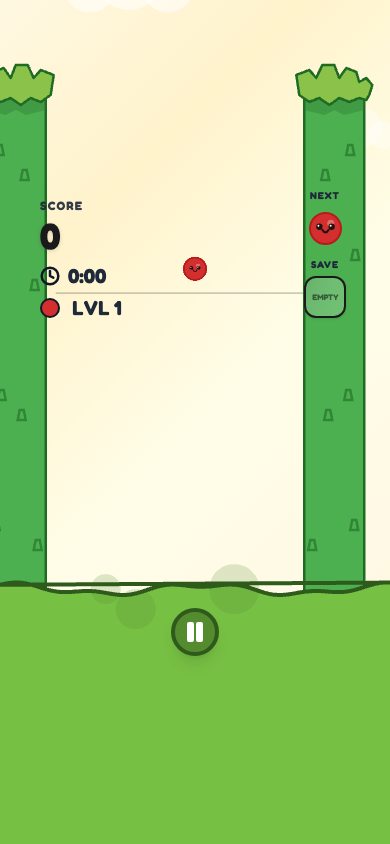
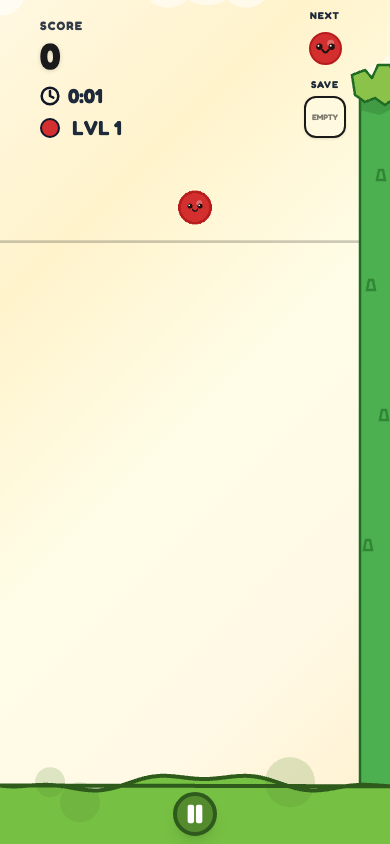
fix: Use actual DOM game area bounds for wall/ground positioning, match engine to DOM layout

diff --git a/services/GameEngine.ts b/services/GameEngine.ts
@@ -450,35 +450,77 @@ export class GameEngine {
 
         const actualW = this.app.screen.width;
         const actualH = this.app.screen.height;
-        const viewW = actualW / 1.4;
-        const viewH = actualH / 1.4;
 
-        this.scaleFactor = Math.min(viewW / V_WIDTH, viewH / V_HEIGHT);
-        this.container.scale.set(this.scaleFactor);
+        // If we have a game area rect, use it to calculate scale
+        if (this._gameAreaWidth > 0 && this._gameAreaHeight > 0) {
+            this.scaleFactor = Math.min(this._gameAreaWidth / V_WIDTH, this._gameAreaHeight / V_HEIGHT);
+            this.container.scale.set(this.scaleFactor);
 
-        // Center the container in the canvas
-        const logicalW = V_WIDTH * this.scaleFactor;
-        const logicalH = V_HEIGHT * this.scaleFactor;
-
-        const xOffset = (actualW - logicalW) / 2;
-        const yOffset = (actualH - logicalH) / 2;
-
-        this.container.position.set(xOffset, yOffset);
+            // Center container within the canvas
+            const logicalW = V_WIDTH * this.scaleFactor;
+            const logicalH = V_HEIGHT * this.scaleFactor;
+            const xOffset = (actualW - logicalW) / 2;
+            const yOffset = (actualH - logicalH) / 2;
+            this.container.position.set(xOffset, yOffset);
+        } else {
+            // Fallback: estimate from canvas size
+            const viewW = actualW / 1.4;
+            const viewH = actualH / 1.4;
+            this.scaleFactor = Math.min(viewW / V_WIDTH, viewH / V_HEIGHT);
+            this.container.scale.set(this.scaleFactor);
+            const logicalW = V_WIDTH * this.scaleFactor;
+            const logicalH = V_HEIGHT * this.scaleFactor;
+            const xOffset = (actualW - logicalW) / 2;
+            const yOffset = (actualH - logicalH) / 2;
+            this.container.position.set(xOffset, yOffset);
+        }
 
         // Track screen-space coordinates for wall/cloud/ground renderers
         this._screenWidth = actualW;
         this._screenHeight = actualH;
-        this._containerTop = yOffset;
-        this._containerLeft = xOffset;
-        this._gameAreaWidth = V_WIDTH * this.scaleFactor;
-        this._gameAreaHeight = V_HEIGHT * this.scaleFactor;
+        this._containerTop = this._gameAreaHeight > 0 ? (actualH - this._gameAreaHeight) / 2 : this._containerTop;
+        this._containerLeft = this._gameAreaWidth > 0 ? (actualW - this._gameAreaWidth) / 2 : this._containerLeft;
 
         // Update screen-space renderers (ground, walls, clouds)
         if (this.groundRenderer) {
-            this.groundRenderer.draw(actualW, actualH, this._gameAreaWidth, this._gameAreaHeight, yOffset, xOffset);
+            this.groundRenderer.draw(actualW, actualH, this._gameAreaWidth, this._gameAreaHeight, this._containerTop, this._containerLeft);
         }
         if (this.wallRenderer) {
-            this.wallRenderer.draw(this._gameAreaWidth, this._gameAreaHeight, yOffset, xOffset, actualH);
+            this.wallRenderer.draw(this._gameAreaWidth, this._gameAreaHeight, this._containerTop, this._containerLeft, actualH);
+        }
+    }
+
+    /**
+     * Update the game area rectangle in screen coordinates.
+     * Called when the DOM layout changes (responsive resize).
+     */
+    updateGameAreaRect(left: number, top: number, width: number, height: number): void {
+        if (!this.app || !this.app.screen) return;
+
+        this._containerLeft = left;
+        this._containerTop = top;
+        this._gameAreaWidth = width;
+        this._gameAreaHeight = height;
+        this._screenWidth = this.app.screen.width;
+        this._screenHeight = this.app.screen.height;
+
+        // Recalculate scale and container position
+        this.scaleFactor = Math.min(width / V_WIDTH, height / V_HEIGHT);
+        this.container.scale.set(this.scaleFactor);
+
+        // Center container within the canvas
+        const logicalW = V_WIDTH * this.scaleFactor;
+        const logicalH = V_HEIGHT * this.scaleFactor;
+        const xOffset = (this._screenWidth - logicalW) / 2;
+        const yOffset = (this._screenHeight - logicalH) / 2;
+        this.container.position.set(xOffset, yOffset);
+
+        // Update screen-space renderers
+        if (this.groundRenderer) {
+            this.groundRenderer.draw(this._screenWidth, this._screenHeight, width, height, top, left);
+        }
+        if (this.wallRenderer) {
+            this.wallRenderer.draw(width, height, top, left, this._screenHeight);
         }
     }
 

diff --git a/components/GameCanvas.tsx b/components/GameCanvas.tsx
@@ -1,6 +1,6 @@
 
 // ... imports
-import React, { useEffect, useRef, useState, useCallback } from 'react';
+import React, { useEffect, useRef, useState } from 'react';
 import { GameSettings, GameStats, FruitTier, LeaderboardEntry, PopupData, PointEvent, PopUpType } from '../types';
 import { GameEngine } from '../services/GameEngine';
 import { DANGER_Y_PERCENT } from '../constants';
@@ -116,22 +116,6 @@ export const GameCanvas: React.FC<GameCanvasProps> = ({ settings, onUpdateSettin
     };
 
     // --- Track Game Area Position ---
-    // The LayoutContainer now handles sizing. We just need to track the game area ref position.
-    const handleLayoutSizeChange = useCallback((_width: number, _height: number, _top: number, _left: number) => {
-        // LayoutContainer size changed, update game area dimensions
-        requestAnimationFrame(() => {
-            if (gameAreaRef.current) {
-                const rect = gameAreaRef.current.getBoundingClientRect();
-                setGameAreaDimensions({
-                    width: rect.width,
-                    height: rect.height,
-                    top: rect.top,
-                    left: rect.left
-                });
-            }
-        });
-    }, []);
-
     useEffect(() => {
         const updateGameAreaPosition = () => {
             if (gameAreaRef.current) {
@@ -142,6 +126,8 @@ export const GameCanvas: React.FC<GameCanvasProps> = ({ settings, onUpdateSettin
                     top: rect.top,
                     left: rect.left
                 });
+                // Update engine with actual DOM game area bounds
+                engineRef.current?.updateGameAreaRect(rect.left, rect.top, rect.width, rect.height);
             }
         };
 
@@ -229,13 +215,28 @@ export const GameCanvas: React.FC<GameCanvasProps> = ({ settings, onUpdateSettin
             }
         });
 
-        engine.initialize().catch(e => console.error("Game init failed", e));
-        engineRef.current = engine;
+        engine.initialize().then(() => {
+            engineRef.current = engine;
 
-        // Debug: expose engine globally for testing
-        if (typeof window !== 'undefined') {
-            (window as any).__gameEngine = engine;
-        }
+            // Debug: expose engine globally for testing
+            if (typeof window !== 'undefined') {
+                (window as any).__gameEngine = engine;
+            }
+
+            // After engine init + DOM layout, update game area rect
+            requestAnimationFrame(() => {
+                if (gameAreaRef.current && engineRef.current) {
+                    const rect = gameAreaRef.current.getBoundingClientRect();
+                    engineRef.current.updateGameAreaRect(rect.left, rect.top, rect.width, rect.height);
+                    setGameAreaDimensions({
+                        width: rect.width,
+                        height: rect.height,
+                        top: rect.top,
+                        left: rect.left
+                    });
+                }
+            });
+        }).catch(e => console.error("Game init failed", e));
 
         return () => {
             engine.cleanup();
@@ -340,7 +341,7 @@ export const GameCanvas: React.FC<GameCanvasProps> = ({ settings, onUpdateSettin
             {/* 1.2 Clouds Overlay — now rendered by Pixi.js inside the game canvas */}
 
             {/* 2. Main Layout Container */}
-            <LayoutContainer onSizeChange={handleLayoutSizeChange}>
+            <LayoutContainer>
 
                 {/* TOP UI (HUD) - Compact top bar */}
                 <div className="shrink-0 flex flex-col justify-start relative z-30 pt-[8px] pb-[4px] px-2">

diff --git a/components/LayoutContainer.tsx b/components/LayoutContainer.tsx
@@ -2,53 +2,11 @@ import React, { ReactNode, useEffect, useState, useCallback } from 'react';
 
 interface LayoutContainerProps {
     children: ReactNode;
-    onSizeChange?: (width: number, height: number, top: number, left: number) => void;
 }
 
-export const LayoutContainer: React.FC<LayoutContainerProps> = ({ children, onSizeChange }) => {
-    const [containerRect, setContainerRect] = useState({ width: 0, height: 0, top: 0, left: 0 });
-
-    const updateSize = useCallback(() => {
-        const vw = window.innerWidth;
-        const vh = window.innerHeight;
-        const aspectRatio = 4 / 5;
-
-        let containerWidth: number;
-        let containerHeight: number;
-
-        if (vw / vh < aspectRatio) {
-            // Narrow screen: width-constrained
-            containerWidth = vw;
-            containerHeight = vw / aspectRatio;
-        } else {
-            // Wide screen: height-constrained
-            containerHeight = vh;
-            containerWidth = vh * aspectRatio;
-        }
-
-        const left = (vw - containerWidth) / 2;
-        const top = (vh - containerHeight) / 2;
-
-        setContainerRect({ width: containerWidth, height: containerHeight, top, left });
-        onSizeChange?.(containerWidth, containerHeight, top, left);
-    }, [onSizeChange]);
-
-    useEffect(() => {
-        updateSize();
-        window.addEventListener('resize', updateSize);
-        return () => window.removeEventListener('resize', updateSize);
-    }, [updateSize]);
-
+export const LayoutContainer: React.FC<LayoutContainerProps> = ({ children }) => {
     return (
-        <div
-            className="fixed flex flex-col"
-            style={{
-                width: containerRect.width,
-                height: containerRect.height,
-                top: containerRect.top,
-                left: containerRect.left,
-            }}
-        >
+        <div className="fixed inset-0 flex flex-col">
             {children}
         </div>
     );
